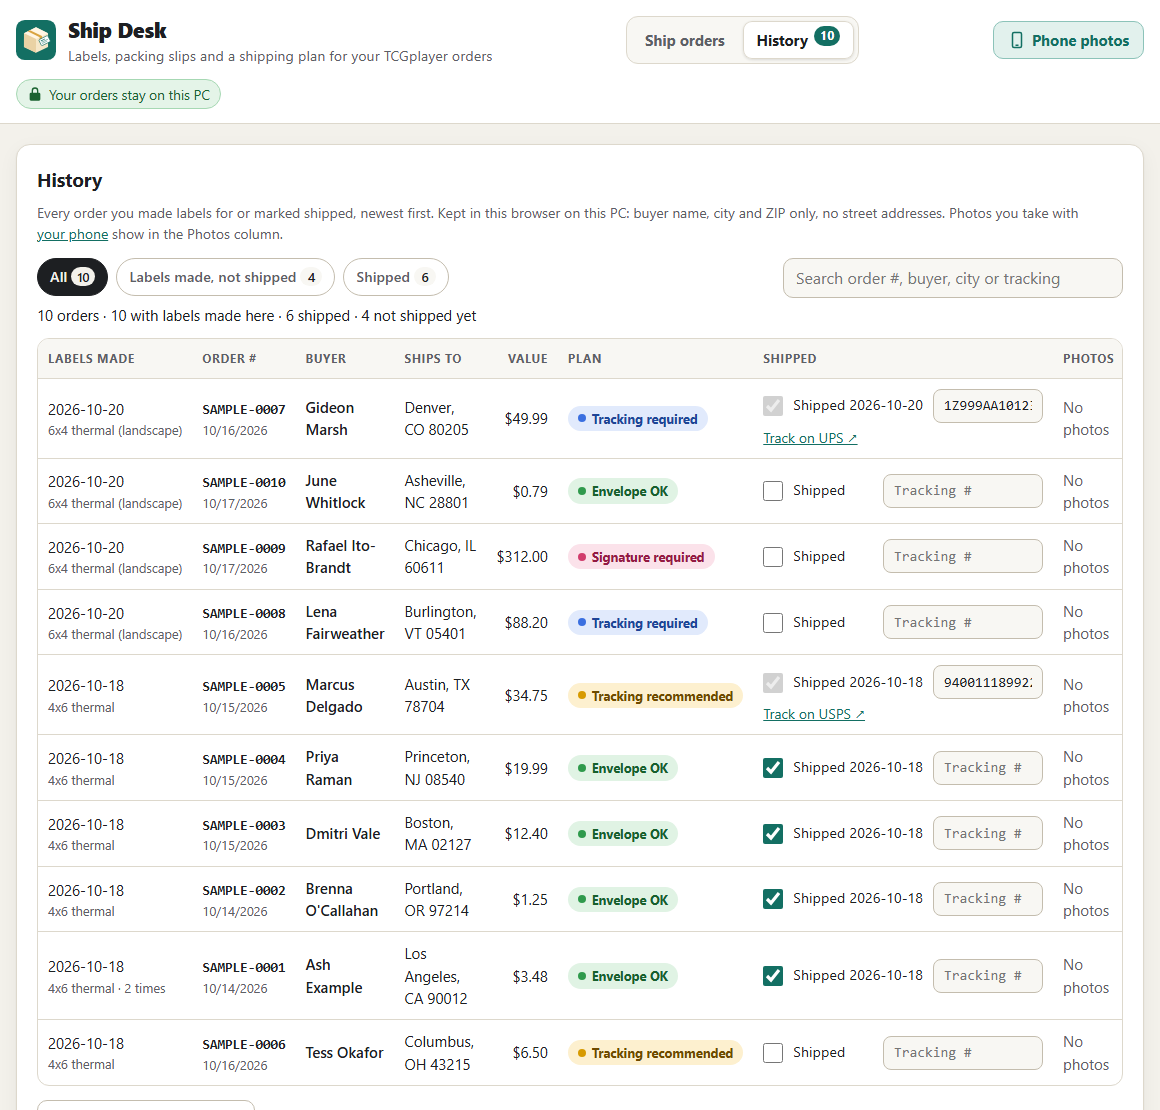
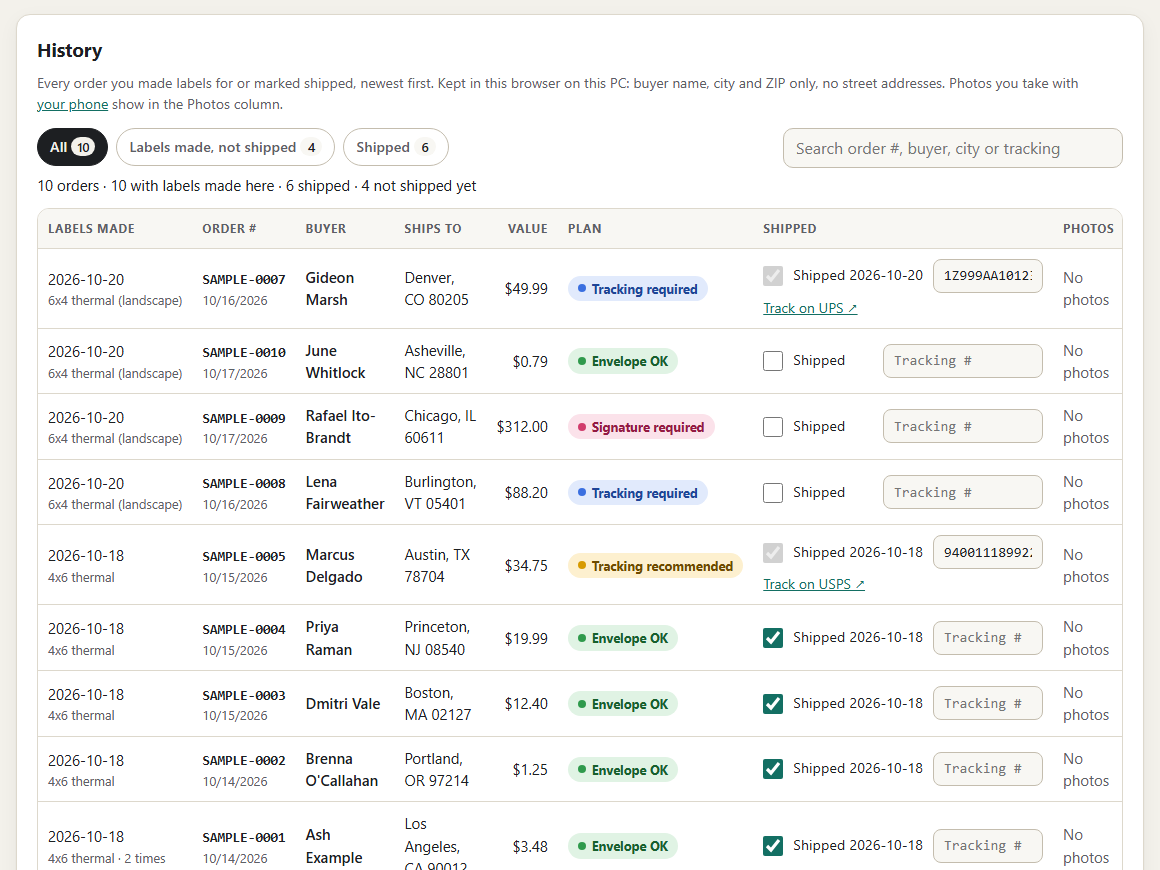
GitHub page: drawn 'How a batch goes' picture instead of the Mermaid chart, tighter crops

diff --git a/tools/make_readme_art.py b/tools/make_readme_art.py
@@ -22,10 +22,10 @@ CROPS = {
     "plan": ("app-1280-sample.png", (60, 730, 1220, 1690), 1160),
     "plan-dark": ("app-1280-sample-dark.png", (60, 730, 1220, 1690), 1160),
     "print": ("app-1280-sample.png", (60, 1740, 1220, 2340), 1160),
-    "history": ("app-1280-history.png", (60, 0, 1220, 1110), 1160),
+    "history": ("app-1280-history.png", (60, 130, 1220, 1000), 1160),
     "phone": ("phone-390.png", (0, 0, 390, 760), 390),
     "scan": ("phone-390-scan.png", (0, 0, 390, 844), 390),
-    "labels": ("pdf-thermalCut.png", (0, 0, 600, 900), 600),
+    "labels": ("pdf-thermalCut.png", (0, 0, 600, 445), 600),
     "slip": ("pdf-labelSlip.png", (0, 0, 900, 1165), 600),
     "proof": ("proof-pack.png", (0, 0, 1300, 880), 1160),
 }
@@ -70,6 +70,8 @@ def main():
     banner = os.path.join(OUT, "banner.svg")
     # GitHub's "Social preview" picture (Settings -> General -> Social preview): 1280 x 640.
     draw_svg(banner, os.path.join(OUT, "social-preview.png"), 1280, 640)
+    # A PNG look at the "How a batch goes" picture, to check it by eye (not used on the page).
+    draw_svg(os.path.join(OUT, "how-it-works.svg"), os.path.join(tempfile.gettempdir(), "how-it-works-check.png"), 1280, 440, "#ffffff")
 
 
 if __name__ == "__main__":

diff --git a/README.md b/README.md
@@ -49,25 +49,7 @@
 
 ### How a batch goes
 
-```mermaid
-flowchart LR
-    csv["TCGplayer<br/>Export Shipping CSV"]:::tcg --> desk(["Ship Desk"]):::desk
-    slip["TCGplayer<br/>packing slip PDF"]:::tcg -. optional .-> desk
-    desk --> pdf["Labels + packing slips<br/>one PDF"]:::out
-    desk --> plan["Shipping plan<br/>weights and stamps"]:::out
-    desk --> pirate["Pirate Ship CSV<br/>for tracked labels"]:::out
-    pirate --> track["Tracking numbers<br/>read back in"]:::out
-    phone["iPhone<br/>scan + photos"]:::phone --> desk
-    track --> import["Import file<br/>marks the batch shipped"]:::done
-    desk --> import
-    import --> tcgdone["TCGplayer<br/>Import Shipping Info"]:::tcg
-
-    classDef desk fill:#136f63,stroke:#0f5a50,color:#ffffff,font-weight:bold
-    classDef tcg fill:#fff6e4,stroke:#d9a441,color:#3b2a07
-    classDef out fill:#e3f4ec,stroke:#1f9d5b,color:#14663c
-    classDef phone fill:#e5ecfb,stroke:#3b6fd8,color:#24479a
-    classDef done fill:#d9a441,stroke:#b98a2e,color:#3b2a07,font-weight:bold
-```
+<p align="center"><img src="docs/readme/how-it-works.svg" width="100%" alt="How a batch goes: 1 export the CSV from TCGplayer, 2 drop it on Ship Desk for a plan per order, 3 print labels and packing slips, 4 read tracking back in and upload the import file. Optional: iPhone photos of each order."></p>
 <!-- /github-only -->
 
 # Ship Desk

diff --git a/CLAUDE.md b/CLAUDE.md
@@ -135,7 +135,7 @@ explain in plain words and finish jobs end to end.
   non-local Host gets only `PHONE_FILES` + `/api/phone/*` (with the `X-Ship-Desk-Key` pairing code).
 - `serve.py` local server, `tools/test.py` test runner, `docs/make_screens.py` + `docs/screens/` screenshots.
 - GitHub page (2026-11-26): README parts between `<!-- github-only ... -->` and `<!-- /github-only -->` (banner, badges,
-  screenshot table, Mermaid "How a batch goes" chart, print-format pictures, proof pack picture) show on GitHub only;
+  screenshot table, "How a batch goes" picture `docs/readme/how-it-works.svg` (a Mermaid chart showed "Unable to render" there), print-format pictures, proof pack picture) show on GitHub only;
   build_installer.py `write_guide` cuts them out of the installed guide (it has no pictures). `docs/readme/banner.svg`
   is drawn by hand in the app's colours; `python tools/make_readme_art.py` re-crops `docs/readme/*.png` from
   `docs/screens/` and draws `social-preview.png` (1280x640, uploaded by hand: repo Settings -> Social preview).
